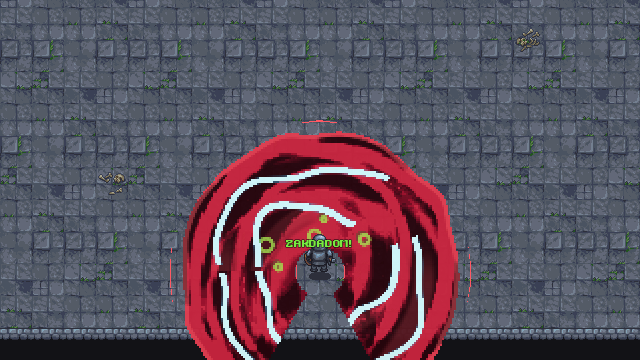
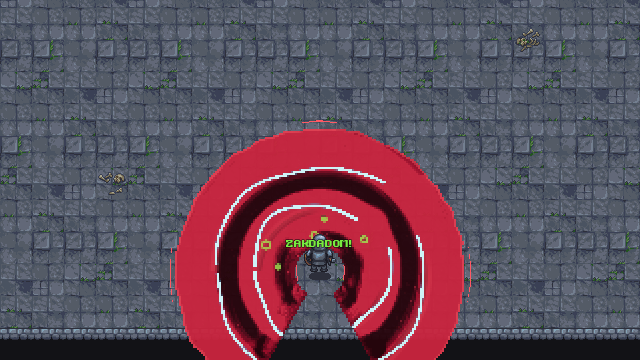
Preserve spell pixel density across radius

Changed region(s): [[0.25, 0.3361, 0.75, 1.0]]

diff --git a/VFX_Comparison.html b/VFX_Comparison.html
@@ -71,7 +71,7 @@
       <div class="verdict">
         <strong>Spike B vinner den tekniska gaten.</strong>
         <p>GPU-versionen behåller spellets exakta PBAoE-form men ger oss ett verkligt tillstånd som ordimpulser kan störa. Den har mörkare dalar, vågor som fortplantas och materialreaktioner som kan byggas ut utan en specialritad effekt för varje kristallkombination.</p>
-        <p><b>Det här är inte slutpolish.</b> Nästa konstpass ska minska rena vita stormband, göra Blood ännu tjockare i rörelsen och låta Venom-bubblor bryta vågkammen tydligare. Men den svåra arkitekturfrågan är avgjord.</p>
+        <p><b>Fast pixeltäthet är nu genomförd.</b> När cirkeln växer tillkommer fler 2×2-celler; befintliga pixlar, vågkammar, bubblor och kanter skalas inte upp. Nästa konstpass ska minska rena vita stormband, göra Blood ännu tjockare i rörelsen och låta Venom-bubblor bryta vågkammen tydligare.</p>
       </div>
     </section>
 
@@ -80,7 +80,7 @@
       <p class="intro">Båda laddningarna går från ZAK till ZAK DA och vidare mot ZAKDADOM. Titta främst efter vad som händer när DA läggs till: i B lever tidigare vågor vidare och möter den nya impulsen.</p>
       <figure>
         <div class="frame"><img src="spike_a_b_comparison_motion.gif" alt="Animerad jämförelse av Spike A och Spike B" loading="eager"></div>
-        <figcaption>Vänster: shaderband. Höger: 128×128 height-field med föregående och nuvarande vätsketillstånd.</figcaption>
+        <figcaption>Vänster: procedurshader. Höger: 256×256 height-field. Båda använder samma fasta 2×2 world-space-pixelstorlek genom hela laddningen.</figcaption>
       </figure>
       <div class="pair">
         <article class="card a"><header><b>Spike A</b><span>Procedurshader · kontrollversion</span></header><img src="spike_a_blood_storm_venom_charge.png" alt="Spike A full laddning" loading="lazy"></article>
@@ -110,15 +110,16 @@
       <h2>Vad som byggdes</h2>
       <ul>
         <li>Tre R32F-texturer roterar mellan föregående, nuvarande och nästa höjdfält.</li>
+        <li>Simuleringen täcker ett fast område i spelvärlden. En större spell avslöjar fler celler i fältet i stället för att förstora texturen.</li>
         <li>Varje nytt ord skapar en radial impuls. Fältet nollställs först när hela casten tar slut, så ZAK kan påverkas av DA och DOM.</li>
         <li>Blood, Storm och Venom skickar allmänna egenskaper — viskositet, energi, kokning och reaktion — inte hårdkodade kombinationsnamn.</li>
         <li>Samma <code>SpellCastPlan</code> klipper shader och träffyta till radie, sektor, riktning och hålcentrum.</li>
         <li><b>V</b> växlar live mellan Spike A och Spike B. Om compute saknas faller B automatiskt tillbaka till A:s renderer.</li>
       </ul>
       <div class="facts">
-        <div class="fact"><b>128×128</b><span>simuleringsfält</span></div>
-        <div class="fact"><b>192 KiB</b><span>tre höjdtexturer per aktiv yta</span></div>
-        <div class="fact"><b>≈0,98 M</b><span>celluppdateringar/sek vid 60 Hz</span></div>
+        <div class="fact"><b>256×256</b><span>fast world-space-fält</span></div>
+        <div class="fact"><b>768 KiB</b><span>tre höjdtexturer per aktiv yta</span></div>
+        <div class="fact"><b>≈3,93 M</b><span>celluppdateringar/sek vid 60 Hz</span></div>
         <div class="fact"><b>1 input</b><span>samma player-centered cast</span></div>
       </div>
     </section>
@@ -128,6 +129,7 @@
       <p class="intro">Körningen gjordes med Godot 4.6.2, Vulkan Forward+ och NVIDIA RTX 3090. GPU-testet bekräftar aktiv compute och riktiga dispatches för samtliga recept.</p>
       <ul>
         <li>Smoke, combat, spell grammar, workbench, Rat Blood-loop, camp-meta och hela femrumsrutten: <b>7/7 godkända</b>.</li>
+        <li>Regressionstest: medium och full radie måste ge samma world-pixelstorlek, medan antalet renderade celler måste öka.</li>
         <li>A/B-fångsten startar båda renderers från samma scen och misslyckas om GPU-fältet inte blir redo eller utför arbete.</li>
         <li>Headless-tester utan RenderingDevice fortsätter genom shaderfallbacken utan att påverka spelmekanik eller sparfil.</li>
         <li>Forward+ är nu projektets aktiva renderer; 3D har inte återinförts och spelet är fortfarande äkta top-down 2D-pixelspel.</li>
